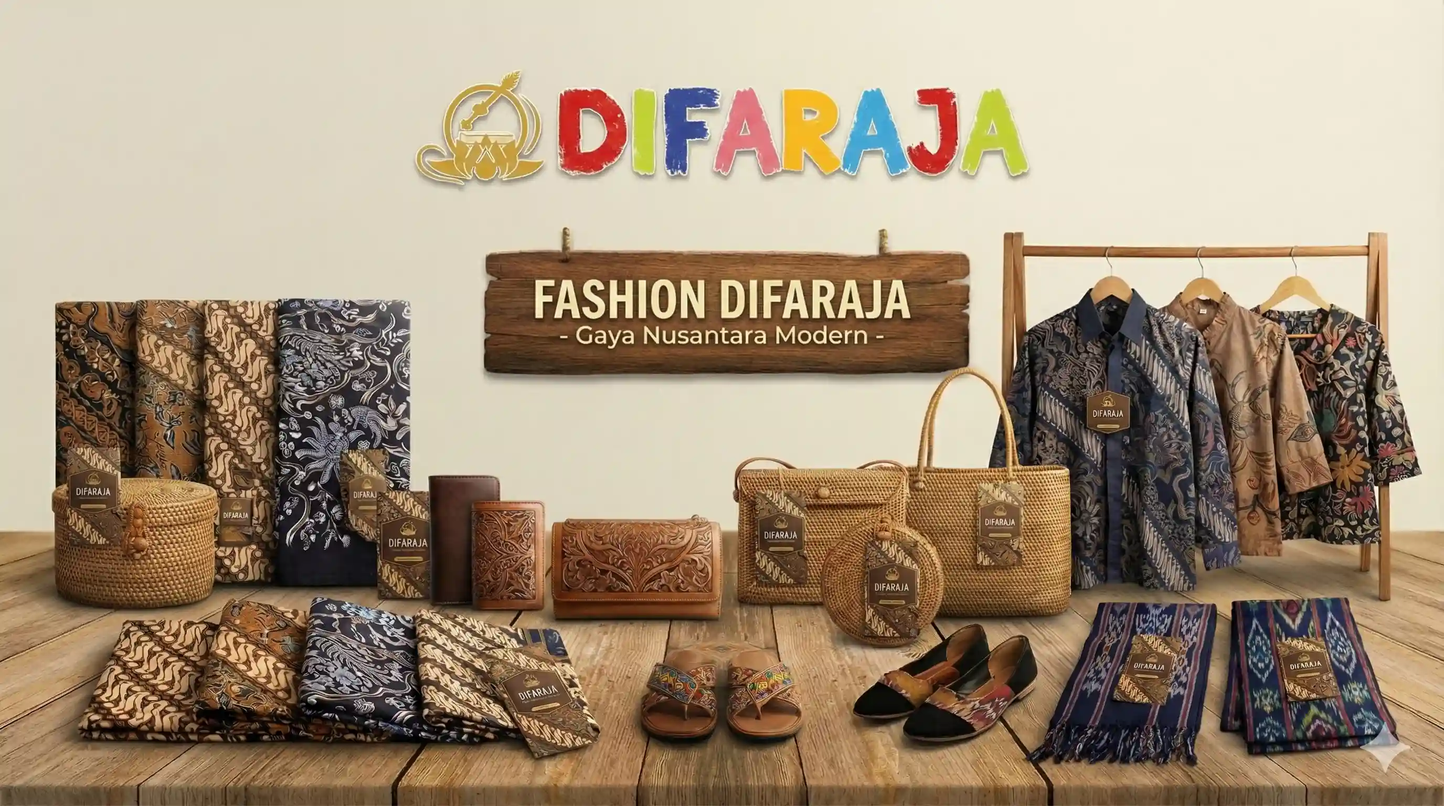
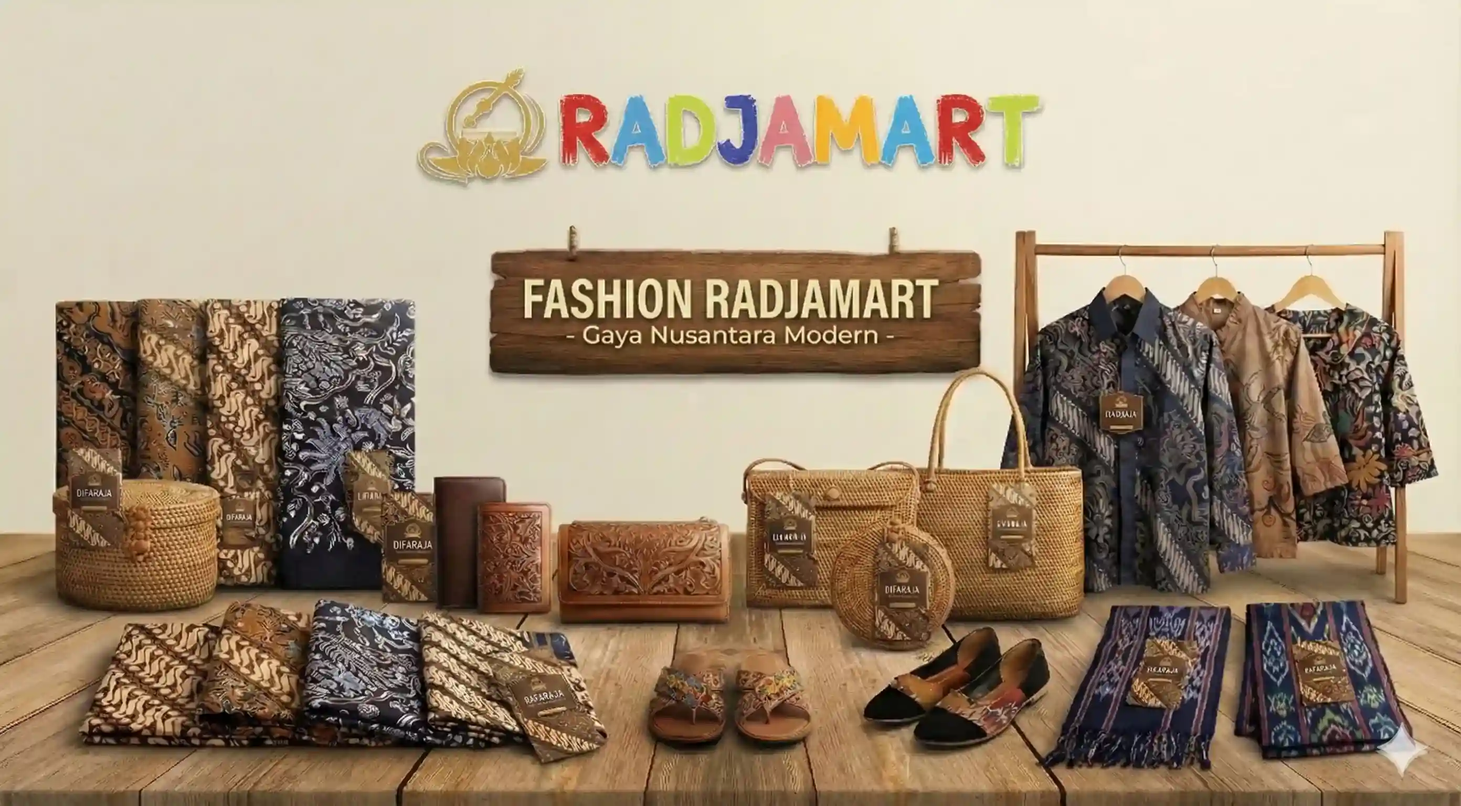
upd

diff --git a/app/(pages)/(home)/page.tsx b/app/(pages)/(home)/page.tsx
@@ -1030,7 +1030,7 @@ function HomeContent() {
                 <div className="grid grid-cols-2 lg:grid-cols-4 gap-2 lg:gap-8">
                   {categories.map((category, index) => (
                     <div key={category.id} className="group h-96">
-                      <div className="relative h-full flex flex-col overflow-hidden rounded-3xl shadow-xl hover:shadow-2xl transition-all duration-500 hover:-translate-y-2 transform">
+                      <div className="relative h-auto flex flex-col overflow-hidden rounded-3xl shadow-xl hover:shadow-2xl transition-all duration-500 hover:-translate-y-2 transform">
                         <div
                           className={`${gradientByIndex(
                             index
@@ -1063,7 +1063,7 @@ function HomeContent() {
                           <p className="text-gray-600 text-sm line-clamp-2 mb-4">
                             {category.description || "—"}
                           </p>
-                          <div className="mt-auto">
+                          {/* <div className="mt-auto">
                             <button
                               onClick={() => handleOpenDetail(category.slug)}
                               className="flex items-center text-emerald-600 font-semibold"
@@ -1071,7 +1071,7 @@ function HomeContent() {
                               <span>{t["sec-2-card-cta"]}</span>
                               <ArrowRight className="w-4 h-4 ml-2 group-hover:translate-x-1 transition-transform" />
                             </button>
-                          </div>
+                          </div> */}
                         </div>
                       </div>
                     </div>

diff --git a/components/footer/footer.tsx b/components/footer/footer.tsx
@@ -129,22 +129,22 @@ export default function Footer() {
                     <div className="w-8 h-8 rounded-full bg-white/20 flex items-center justify-center">
                       <IconBrandWhatsapp className="w-4 h-4 text-white" />
                     </div>
-                    <span>+62 817-1111-222</span>
+                    <span>+62 856-4244-3375</span>
                   </div>
                   <div className="flex items-center gap-3">
                     <div className="w-8 h-8 rounded-full bg-white/20 flex items-center justify-center">
                       <Mail className="w-4 h-4 text-white" />
                     </div>
-                    <span>admin@difaraja.id</span>
+                    <span>info@radjamart.com</span>
                   </div>
                   <div className="flex items-start gap-3">
                     <div className="w-8 h-8 rounded-full bg-white/20 flex items-center justify-center flex-shrink-0">
                       <MapPin className="w-4 h-4 text-white" />
                     </div>
                     <span>
-                      Jl. Raden Wijaya No. 12,
+                      Jalan Kantil, Bulusulur
                       <br />
-                      Mojokerto, Jawa Timur
+                      Wonogiri, Jawa Tengah
                     </span>
                   </div>
                 </div>

diff --git a/components/payment-method.tsx b/components/payment-method.tsx
@@ -70,11 +70,11 @@ export default function PaymentType({
 
                   <div className="bg-white p-3 rounded-lg">
                     <p className="font-semibold text-gray-900">
-                      Warna Kreasi Alam PT
+                      Muhammad Zayn Alfarizky
                     </p>
                     <p className="text-sm text-gray-600">Bank BCA</p>
                     <p className="font-mono text-lg font-bold text-gray-900">
-                      7311087405
+                      1122334455
                     </p>
                   </div>
 
